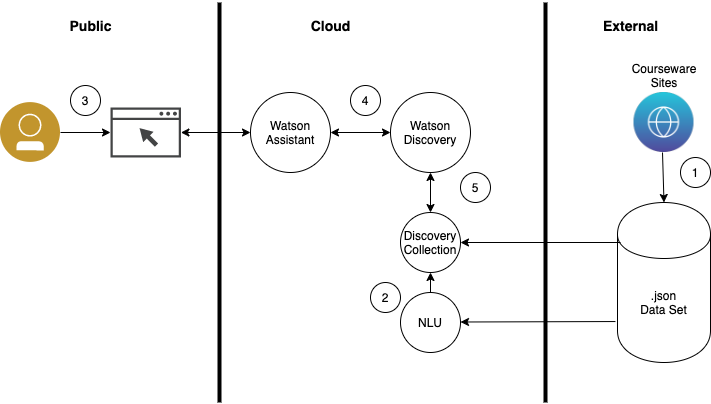
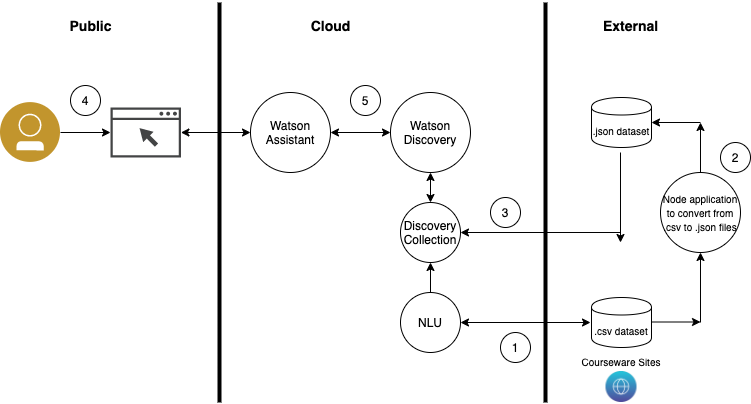
updated readme based on addition of new upload progrram

diff --git a/README.md b/README.md
@@ -27,11 +27,11 @@ NLU performs text analysis to extract meta-data such as concepts, entities, keyw
 
 <img src="./images/architecture.png" alt="Architecture" /> 
 
-1. Manually seed `.xls` file with data from course offerings found on the web and add it to the Discovery Collection
-2. Run script to run data set through Natural Language Understanding to extract the meta-data (e.g. course name, desciption,etc) and enrich the Discovery collection
-3. The user interacts through the chatbot via a Watson Assistant Dialog Skill
-4. When the student asks about course information, a search query is issued to the Watson Discovery service through a Watson Assistant search skill
-5. Discovery has been enriched from the data set run through NLU. It returns responses to the dialog
+1. Execute Python program to run data set through Natural Language Understanding to extract the meta-data (e.g. course name, desciption,etc) and enrich the Discovery collection
+2. Run Node program to run data set through Natural Language Understanding to extract the meta-data (e.g. course name, desciption,etc) and enrich the Discovery collection
+3. Programmatially upload .json files into the Discovery Collection
+4. The user interacts through the chatbot via a Watson Assistant Dialog Skill
+5. When the student asks about course information, a search query is issued to the Watson Discovery service through a Watson Assistant search skill  Discovery returns the responses to the dialog
 
 ## Included components
 
@@ -81,14 +81,14 @@ Create the following services:
 
 > **NOTE**: use the `Plus` offering of Watson Assistant. You have access to a 30 day trial.
 
+* Create a copy of the `env-sample` file and call it `.env`. Add in your NLU and Discovery credentials. 
+
 
 ## 3. Configure Watson NLU
 
 NLU enriches Discovery by creating the addition of metadata tags to your data sets.  In otherwords, include terms that overlap with words that users will actually provide in their queries.
 
-* Create a copy of the `env-sample` file and call it `.env`. Add in your NLU credentials. 
-
-- The next step will run the [`.csv`](./data/discovery-nlu/input) files through NLU and extract entities and concepts. Do this by running the python program:  
+- The following instructions has the developer run the [`.csv`](./data/discovery-nlu/input) files through NLU and extract entities and concepts. Do this by running the python program:  
 ```bash
 cd src
 pip install watson-developer-cloud==1.5
@@ -100,7 +100,25 @@ python NLUEntityExtraction.py
 
 > Note that this may take a few minutes. This will create 2 [`.csv`](./data/discovery-nlu/output) files. Take a look at the format by exploring the files.
 
-- The last step to create a set `.json` files. This the format that Discovery accepts. Run a node program to convert the `.csv` file to a set of `.json` files in a directory named `manualdocs`.
+
+## 4. Configure Watson Discovery
+
+### Create Discovery Collection
+
+Discovery xxxxxxx
+
+1. First create a Discovery Collection. This is the database which will hold your response data.
+
+* Find the Discovery service in your IBM Cloud Dashboard.
+* Click on the service and then click on `Launch Watson Discovery`.
+* Create a new data collection by hitting the `Upload your own data` button. You will see that you have one collection created that comes with Discovery by default. That is the `Watson Discovery News` collection. 
+* Provide a collection name - call it `Courses`
+* Select `English` language
+* Click `Create`
+
+You will need to configure Discovery in 2 steps:
+
+1. Create a set of `.json` files that Discovery will consume for its collection.   The [node program](./src/read-file.js) converts the `.csv` file to a set of `.json` files in a directory named `manualdocs`.
 
 -  Install [Node.js](https://nodejs.org) (Versions >= 6).
 
@@ -113,29 +131,20 @@ npm install
  ```bash
  node read-file.js 
  ```
-- Verify the [`JSON`](./data/manualdocs) files.
+- Verify the [`JSON`](./data/manualdocs) files exists.
 
+2. Programmatically upload the `.json` files into the discovery collection
 
-## 4. Configure Watson Discovery
+> ensure you have added your Discovery credentials into a .env file sitting in your root directory of your repo.
 
-### Create Discovery Collection
+```bash
+ npm install python-dotenv
+ npm install ibm-watson
+ node upload-file.js 
+ ```
 
-<br>
-<p align="center">
-  <img src="GIFs/Discovery.gif">
-</p>
-<br>
+ This will take approximately 5 minutes or leass. Documents are uploaded to your Courses Collection. Take a look and explore the collection.  You should see about 49 documents.
 
-* Find the Discovery service in your IBM Cloud Dashboard.
-* Click on the service and then click on `Launch Watson Discovery`.
-* Create a new data collection by hitting the `Upload your own data` button. You will see that you have one collection created that comes with Discovery by default. That is the `Watson Discovery News` collection. 
-* Provide a collection name - call it `Courses`
-* Select `English` language
-* Click `Create`
-
-* Use `Drag and drop your documents here or select documents` to seed the content with the documents in `./data/manualdocs/` of your cloned repo.
-
-> Note that this may take a few minutes. You should see a total of 49 documents.
 
 > **NOTE:** If using the Discovery Lite plan, you are limited to loading up to 1000 files into your discovery service. This limit is not per collection, but the combined number for all collections in your service.
 
